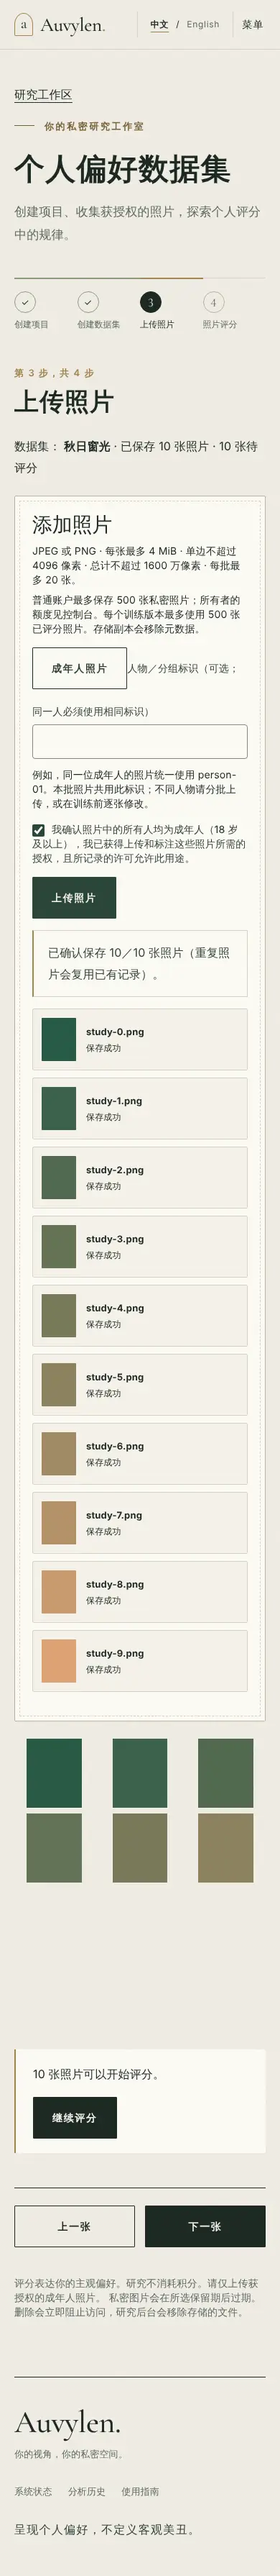
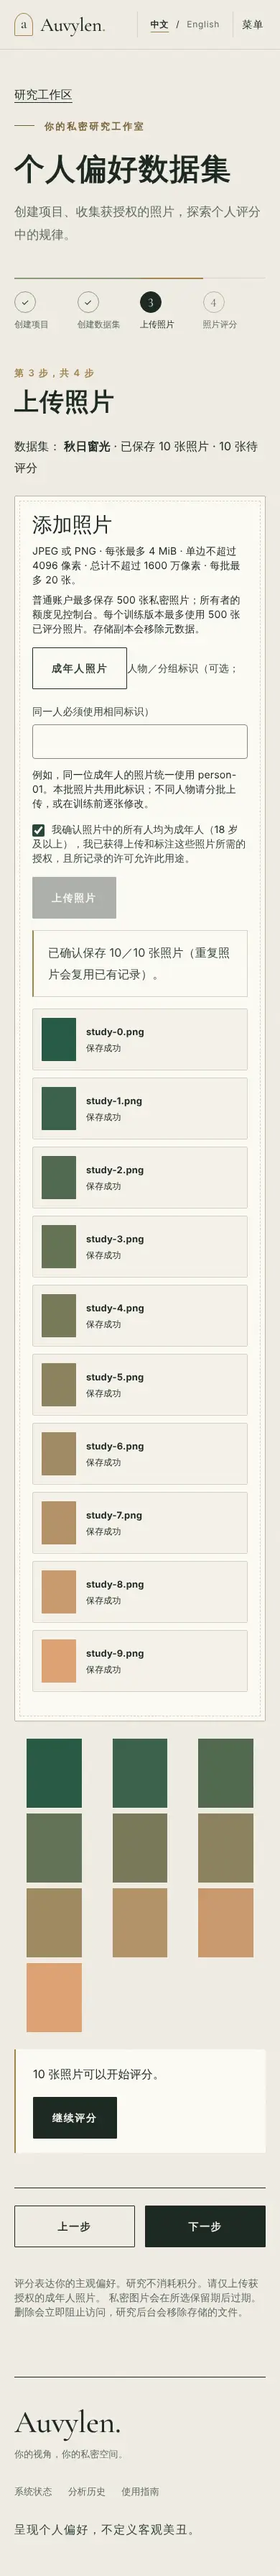
Document research wizard release review, deployment and rollback
Adds docs/release/research-wizard-release.md: dump.rdb assessment and the
history-rewrite decision, independent review findings and fixes, regression
and existing-data compatibility evidence, a backup-first Codespaces upgrade
checklist (the preview controller applies migrations on setup/start), migration
verification queries and a staged rollback strategy. Refreshes wizard
screenshots for the updated step labels.

Claude-Session: https://claude.ai/code/session_01HYZvtNgvYP58YdBnKtPnoQ

diff --git a/docs/release/research-wizard-release.md b/docs/release/research-wizard-release.md
@@ -1,0 +1,178 @@
+# Research wizard release: review report and deployment checklist
+
+Scope: PR #8 (`ae3f40a`, merged as `194335e`) plus the follow-up branch
+`codex/research-wizard-release`. Nothing here deploys, merges or enables the aesthetic
+scoring model, and nothing resets accounts, photographs, models or database volumes.
+
+## 1. Security cleanup: `dump.rdb`
+
+**What happened.** A local test Redis was started from the repository root during
+browser testing. Its snapshot was swept into `ae3f40a` by `git add -A`. The repository is
+public.
+
+**Contents (inspected without printing values).** The 2,172-byte RDB holds:
+- rate-limit counters keyed by HMAC-SHA256 digests made with the CI-only pepper, which is
+  already public in `ci.yml`. The digests cover `127.0.0.1` and synthetic test accounts;
+- one worker heartbeat timestamp;
+- Redis metadata.
+
+There are no sessions, CSRF tokens, passwords, redemption codes, photographs, API keys or
+real users. The file was never in a Docker image: images copy only service directories.
+
+**Actions taken.**
+- `46a4d02` deletes the file.
+- Redis RDB/AOF files are now ignored in Git and Docker build contexts.
+- New test `test_repository_hygiene.py` fails if any datastore snapshot or dump is tracked.
+- Test Redis now runs with its data directory outside the repository and with
+  `--save ""`.
+
+**History rewrite: not done; owner decision.** The file remains in history at `ae3f40a`
+and `194335e`. Purging it means force-pushing rewritten history to the shared integration
+branch. That invalidates every clone, including the live Codespace, and needs coordinated
+re-cloning. Given the contents, I recommend **not** rewriting. If you still want it purged,
+run `git filter-repo --path dump.rdb --invert-paths` on a fresh mirror, with explicit
+approval and a coordinated re-clone. No credential needs rotating.
+
+## 2. Independent code review
+
+A high-effort automated review of `279afee..ae3f40a` produced 10 findings. I verified and
+fixed nine on this branch, with tests:
+
+| Finding | Fix |
+| --- | --- |
+| Readiness did not refresh after editing a score (only count changes triggered it), so `no_score_variation` could go stale | The refresh key includes a valid-score signature |
+| `?step=1.5` crashed the wizard | Only integer steps are accepted |
+| Seed and fraction inputs reverted while typing and requested readiness on every keystroke | Typed text is kept, and valid values are committed after a 400 ms pause. Training sends exactly the values shown |
+| Wizard Previous/Next used the photo-navigation keys (zh: 上一张/下一张) | Separate "Previous step"/"Next step" keys (上一步/下一步) |
+| Back/Forward did not move between steps | Step moves push history entries. `popstate` restores the step after re-validating it against server data |
+| Dataset list counted prediction-only photos as images | `DatasetView.prediction_count`; lists show annotation photos plus a "N prediction-only" note |
+| Thresholds and reason codes were duplicated | One `MIN_RATED_IMAGES`/`MIN_GROUPS` source and one `ReadinessReason` contract |
+| Blocker copy was duplicated in two components | One shared map (`readinessMessages`) |
+| Repeated summary computation | Computed once per render |
+
+**Kept by design:** prediction-only photos still count toward the private image and
+storage quota. They are stored private images, so this is the resource safeguard.
+
+Two more defects were found and fixed during regression testing:
+- After Back/Forward, browser scroll restoration could leave the lazily loaded main
+  photograph off-screen and unloaded. The wizard now manages scrolling, and the main photo
+  loads eagerly.
+- On the completion screen the training card repeated the same blocker list. It now points
+  to the summary instead.
+
+**Access controls re-verified:**
+- Readiness, uploads, ratings, comparisons and prediction keep the existing session,
+  research-entitlement, ownership, CSRF and exact-Origin checks. Other users get 403/404.
+- Prediction photographs are refused for rating and comparison by the server and are
+  excluded from training snapshots.
+- Duplicates never change purpose silently.
+
+**Migration `0010` re-verified:**
+- It upgrades, downgrades and upgrades again on a fresh database, and `alembic check` is
+  clean.
+- Existing rows default to `annotation`; the incremental-upgrade test asserts this.
+- Downgrade refuses while prediction photos exist.
+
+## 3. Regression and compatibility evidence
+
+| Check | Result |
+| --- | --- |
+| GitHub CI on PR #8 and on merge `194335e`, all five jobs including `cloud-research` | Success |
+| `uv run pytest` | 194 passed, 29 skipped (opt-in) |
+| `uv run pytest --integration` (PostgreSQL + Redis) | 218 passed, 5 skipped (reviewed MobileNet weights not installed) |
+| Ruff, formatting, strict mypy, `alembic check` | Clean |
+| `npm test` / lint / typecheck / build | 140 passed / clean / clean / built |
+| Playwright default suite | 7 passed, 1 skipped (synthetic-checkpoint test) |
+| Playwright synthetic aesthetic checkpoint | Passed |
+
+**Existing-data compatibility.** Pre-PR code (`279afee`) created, at revision 0009, a
+dataset with 11 photos and 10 ratings, a trained model v1 and a prediction. The new code
+then migrated that database to 0010:
+- every image became `annotation`;
+- v1 stayed READY and reproduced the identical prediction;
+- a prediction-only upload predicted correctly;
+- retraining produced v2;
+- readiness and counts were correct.
+
+**Rollback check on the same data.** The downgrade was refused while a prediction photo
+existed. After deleting and purging it, the downgrade succeeded and the old code's
+`alembic check` was clean.
+
+**Visual QA.** I checked the wizard (all steps, completion, prediction), home, analysis,
+account and research pages at 1440, 820 and 390 px in English and Chinese. There were no
+page errors and no horizontal overflow. Screenshots are in `docs/research-wizard/`.
+
+**Not verified here:**
+- MobileNet-backed training and prediction (weights not installed; the `--pretrained`
+  suites cover them where weights exist);
+- the Codespaces `preview-tests` (updated, but they run only inside a Codespace);
+- the live Codespace itself, which was not accessed.
+
+## 4. Deployment checklist: existing private Codespace (after your approval)
+
+Run in the **existing** Codespace terminal only. Do not recreate the Codespace, regenerate
+credentials, run Owner initialization or remove volumes. The preview controller applies
+migrations automatically on `setup`/`start` (`APPLY_MIGRATIONS=true`), so the backup
+**must** come first.
+
+1. **Pre-flight.**
+   - `git status` is clean and `git log -1` shows the currently deployed commit; write it
+     down as the rollback target.
+   - `python scripts/codespaces-preview.py status` shows the app healthy.
+   - Note the Owner dashboard counts (users, datasets, images, models) for comparison
+     afterwards.
+2. **Encrypted backup.**
+   - Run `python scripts/codespaces-preview.py backup`.
+   - Enter a strong new passphrase and store it separately.
+   - Record the printed ciphertext SHA-256.
+   - Copy the `.tar.gz.gpg` out of the Codespace to approved private storage, and confirm
+     the copy's SHA-256 matches.
+   - Do not continue without a verified external copy.
+3. **Update code.**
+   - `python scripts/codespaces-preview.py stop`.
+   - `git fetch origin && git checkout codex/phase4b-custom-preferences && git pull --ff-only`.
+   - Never use `reset --hard` or `clean -fdx` over private data.
+4. **Install, migrate and build.**
+   - Run `python scripts/codespaces-preview.py setup`. It runs `uv sync --locked`,
+     `npm ci`, the MobileNet restore/verification, the serialized migration and the build.
+   - If any step fails, keep the app stopped and go to rollback.
+5. **Verify the migration.**
+   - Run `uv run alembic -c services/api/alembic.ini current`; it must show
+     `0010_image_purpose (head)`.
+   - Run `uv run alembic -c services/api/alembic.ini check`; it must show no pending
+     operations.
+   - Run `SELECT purpose, count(*) FROM preference_images GROUP BY purpose;` with `psql`.
+     It must show only `annotation`, with the pre-flight image total.
+6. **Start and smoke test.**
+   - `python scripts/codespaces-preview.py start`, then `status`.
+   - Port 3000 must remain **Private**.
+   - Sign in normally. Owner counts and Credits must match the pre-flight values.
+   - The existing dataset must open at its saved step.
+   - Existing model versions must show READY.
+   - Switching language must work.
+   - Do not upload, rate, train or delete live research data just to test, unless you
+     choose to.
+7. **Leave real aesthetic scoring off.** `AESTHETIC_SCORING_ENABLED` stays unset or
+   `false`, and the analysis page shows "not available".
+
+## 5. Rollback strategy
+
+- **Before step 5 succeeds (no schema change yet):** stop the app, `git checkout <noted
+  commit>`, then run `setup` and `start`. No data changed.
+- **After migration, if no prediction photos exist yet:**
+  1. Stop the app.
+  2. Run `uv run alembic -c services/api/alembic.ini downgrade 0009_aesthetic_analyses`.
+  3. Check out the noted commit.
+  4. Run `setup` and `start`. The `setup` migration is a no-op at 0009.
+- **After prediction photos were uploaded:**
+  1. Delete them in the app ("Delete prediction photograph"), or let them expire with their
+     dataset.
+  2. Let the worker purge them, then downgrade as above.
+  3. If the downgrade refuses, the guard is protecting data: delete the remaining
+     prediction photos first.
+  - Trained models are unaffected, because prediction photos are never in training
+    snapshots.
+- **Data loss or corruption (any stage):** restore the verified encrypted backup into a
+  **new, unused** Codespace, following the documented procedure ("Recovery into a new,
+  unused Codespace" in `docs/codespaces-private-preview.md`). Keep the original Codespace
+  stopped and untouched until the restore is verified.

diff --git a/docs/research-wizard-ux.md b/docs/research-wizard-ux.md
@@ -1,5 +1,8 @@
 # Personal research wizard, rating completion and prediction input
 
+Release review, follow-up fixes and the deployment/rollback checklist are in
+[release/research-wizard-release.md](release/research-wizard-release.md).
+
 Implemented on 2026-10-27 from `279afee`. It preserves the existing accounts, datasets,
 ratings, models, Credits and security controls. The aesthetic scoring model is untouched
 and stays disabled.
